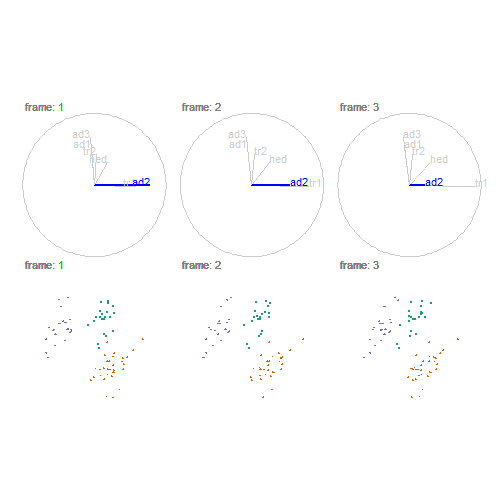
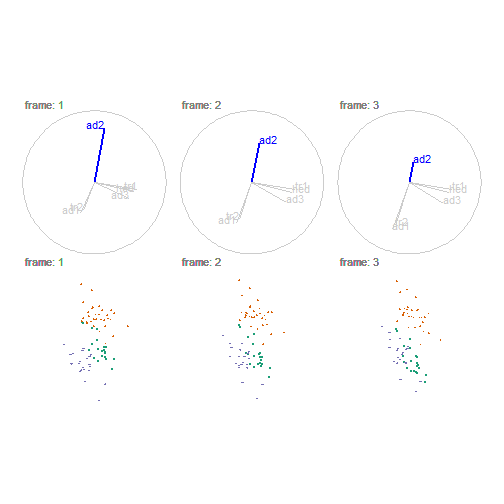
References, Changes from Julie.

diff --git a/slides_ns.html b/slides_ns.html
@@ -22,19 +22,19 @@ class: center, middle, inverse, title-slide
 
 # Motivation
 
-Exploratory data analysis is important and ubiquitous, and it's important to keep visual interpretation: 
+Exploratory data analysis is important and ubiquitous, and it is important to keep visual interpretation: 
 
 ![](./images/AllDinosAnimatedSmaller.gif)
 
-Datasaurus dozen; same means, standard deviations, and correlations, *Matejka &amp; Fitzmaurice, 2017*
+Datasaurus dozen; same means, standard deviations, and correlations, *(Matejka &amp; Fitzmaurice, 2017)*
 
 ---
 
 # Visualizing multivariate spaces
 
-- Visualization becomes complex; use dimension reduction
-- One static projection doesn't portray all of the variation
-- Dynamic rotations do a better job of revealing the structure
+- Visualization  multivariate spaces becomes complex; dimension reduction
+- One static projection does not portray all of the variation
+- Dynamic rotations do conveys more variation and more accurate structure
 
 **Shadow puppet analogy (linear projection from 3- to 2D):**
 
@@ -44,11 +44,11 @@ Datasaurus dozen; same means, standard deviations, and correlations, *Matejka &a
 
 # Dynamic linear projections, tours   
 
-**Available on CRAN,** `tourr` R package, *Wickham et al. 2011*
+**Available on CRAN,** `tourr` R package, *(Wickham et al. 2011)*
 
-- Random choice - *grand tour* random forest walk in `\(p\)`-space *Asimov 1985*
-- Data-driven - *guided tour* projection pursuit, optimize an objective function on the projection *Hurley &amp; Buja 1990*
-- Many other geometric displays, we'll discuss scatterplot
+- Random choice - *grand tour* random forest walk in `\(p\)`-space *(Asimov 1985)*
+- Data-driven - *guided tour* projection pursuit, optimize an objective function on the projection *(Hurley &amp; Buja 1990)*
+- Many other geometric displays, this talk uses scatterplots
 
 --
 
@@ -68,39 +68,40 @@ guided tour - optimizing holes index:
 
 # 3D and immersive 3D data visualization
 
+Data visualization has lagged behind in adopting 3D and immersive technologies, despite promising finds
 
 .pull-left[
-&lt;img src="./images/nelson98fig.PNG" width="100%" height="100%" style="display: block; margin: auto;" /&gt;
+&lt;img src="./images/nelson98fig.PNG" width="90%" height="90%" style="display: block; margin: auto;" /&gt;
 
-*Nelson et al. 1998*
+*(Nelson et al. 1998)*
 - tours: head-tracked VR vs standard monitor
 - better cluster and shape identification, slower brushing
 ]
 
 .pull-right[
-3D vs orthogonal 2D: 3D visuals generally convey more information with more speed, manipulation is slower, though 3D with 2D gives best perception *Lee 1986, Wickens 1994, Tory 2006, counterexample: sedlmair 2013*
+3D visuals generally convey more information with more speed, but  manipulation is slower when compared with orthogonal 2D, though 3D with 2D gives the best perception *[Lee 1986, Wickens 1994, Tory 2006]*
 
-Embedded multivariate data in 3D report improved accuracy, faster response time, but a slower manipulation speed and less comfort *Gracia 2016, Wagner 2018, Nelson 1998*
+Embedded multivariate data in immersive 3D report improved accuracy and faster response time, but a slower manipulation speed and less comfort *[Gracia 2016, Wagner 2018, Nelson 1998, counterexample: Sedlmair 2013]*
 
-With the improved quality, increasing audience, and reduced cost of modern VR it is timely to research dynamic projections in VR 
+Modern VR equipment has improved quality, increased audience, and reduced the costs of VR, it is timely to research dynamic projections in VR
 ]
 
 ---
 
 # Research objectives
+&lt;hr&gt;&lt;br&gt;
 
-- 1) How can user-controlled steering (UCS) be generalized to work within graphic-specific environments for 2D projections?
-- 2) Does 2D UCS tours provide benefits over alternatives?
-- 3) How do we extend UCS to 3D?
-- 4) Does UCS in 3D displays provide benefits over 2D displays?
+## 1) How can user-controlled steering (UCS) be generalized to work within graphic-specific environments for 2D projections?
+## 2) Does 2D UCS tours provide benefits over alternatives?
+## 3) How do we extend UCS to 3D?
+## 4) Does UCS in 3D displays provide benefits over 2D displays?
 
-&lt;img src="./images/ProjectOverview.PNG" width="60%" height="60%" style="display: block; margin: auto;" /&gt;
 
 ---
 
 # RO 1) How can UCS be generalized to work within graphic-specific environments for 2D projections?
 
-- Manual choice - *manual tour* user-controlled manipulation of a selected variable *Cook &amp; Buja 1997*
+- Manual choice - *manual tour* user-controlled manipulation of a selected variable *(Cook &amp; Buja 1997)*
     - Used to explore the sensitivity of the structure to the variables contributing to the projection
     
 *Algorithm design, work in progress &amp; paper to be submitted to the R Journal:*
@@ -113,14 +114,14 @@ With the improved quality, increasing audience, and reduced cost of modern VR it
 
 ---
 
-# Step 1) Choose a variable of interest
+# RO1 Step 1) Choose a variable of interest
 
 - Starting with the last projection of the previous holes-indexed guided tour:
 
 
 
 .pull-left[
-&lt;img src="slides_ns_files/figure-html/unnamed-chunk-5-1.png" width="130%" height="130%" style="display: block; margin: auto;" /&gt;
+&lt;img src="slides_ns_files/figure-html/unnamed-chunk-4-1.png" width="130%" height="130%" style="display: block; margin: auto;" /&gt;
 ]
 
 .pull-right[
@@ -135,33 +136,33 @@ With the improved quality, increasing audience, and reduced cost of modern VR it
 &lt;tbody&gt;
   &lt;tr&gt;
    &lt;td style="text-align:left;"&gt; tars1 &lt;/td&gt;
-   &lt;td style="text-align:right;"&gt; 0.5806 &lt;/td&gt;
-   &lt;td style="text-align:right;"&gt; -0.2581 &lt;/td&gt;
+   &lt;td style="text-align:right;"&gt; 0.5936 &lt;/td&gt;
+   &lt;td style="text-align:right;"&gt; 0.1667 &lt;/td&gt;
   &lt;/tr&gt;
   &lt;tr&gt;
    &lt;td style="text-align:left;"&gt; tars2 &lt;/td&gt;
-   &lt;td style="text-align:right;"&gt; 0.1591 &lt;/td&gt;
-   &lt;td style="text-align:right;"&gt; 0.4002 &lt;/td&gt;
+   &lt;td style="text-align:right;"&gt; -0.0420 &lt;/td&gt;
+   &lt;td style="text-align:right;"&gt; 0.3735 &lt;/td&gt;
   &lt;/tr&gt;
   &lt;tr&gt;
    &lt;td style="text-align:left;"&gt; head &lt;/td&gt;
-   &lt;td style="text-align:right;"&gt; 0.2376 &lt;/td&gt;
-   &lt;td style="text-align:right;"&gt; 0.3656 &lt;/td&gt;
+   &lt;td style="text-align:right;"&gt; -0.1135 &lt;/td&gt;
+   &lt;td style="text-align:right;"&gt; 0.4786 &lt;/td&gt;
   &lt;/tr&gt;
   &lt;tr&gt;
    &lt;td style="text-align:left;"&gt; aede1 &lt;/td&gt;
-   &lt;td style="text-align:right;"&gt; 0.0992 &lt;/td&gt;
-   &lt;td style="text-align:right;"&gt; 0.5339 &lt;/td&gt;
+   &lt;td style="text-align:right;"&gt; -0.2207 &lt;/td&gt;
+   &lt;td style="text-align:right;"&gt; 0.4426 &lt;/td&gt;
   &lt;/tr&gt;
   &lt;tr&gt;
    &lt;td style="text-align:left;"&gt; aede2 &lt;/td&gt;
-   &lt;td style="text-align:right;"&gt; 0.7143 &lt;/td&gt;
-   &lt;td style="text-align:right;"&gt; -0.2603 &lt;/td&gt;
+   &lt;td style="text-align:right;"&gt; 0.7392 &lt;/td&gt;
+   &lt;td style="text-align:right;"&gt; 0.2478 &lt;/td&gt;
   &lt;/tr&gt;
   &lt;tr&gt;
    &lt;td style="text-align:left;"&gt; aede3 &lt;/td&gt;
-   &lt;td style="text-align:right;"&gt; 0.2472 &lt;/td&gt;
-   &lt;td style="text-align:right;"&gt; 0.5355 &lt;/td&gt;
+   &lt;td style="text-align:right;"&gt; -0.1944 &lt;/td&gt;
+   &lt;td style="text-align:right;"&gt; 0.5885 &lt;/td&gt;
   &lt;/tr&gt;
 &lt;/tbody&gt;
 &lt;/table&gt;
@@ -171,10 +172,10 @@ With the improved quality, increasing audience, and reduced cost of modern VR it
 
 ---
 
-# Step 2) Create a manipulation space
+# RO1 Step 2) Create a manipulation space
 
 .pull-left[
-&lt;img src="slides_ns_files/figure-html/unnamed-chunk-7-1.png" width="80%" height="80%" style="display: block; margin: auto;" /&gt;
+&lt;img src="slides_ns_files/figure-html/unnamed-chunk-6-1.png" width="80%" height="80%" style="display: block; margin: auto;" /&gt;
 ]
 
 .pull-right[
@@ -186,14 +187,14 @@ With the improved quality, increasing audience, and reduced cost of modern VR it
 
 ---
 
-# Step 3) Generate the rotation
+# RO1 Step 3) Generate the rotation
 
 *Over the sequence of angles:* rotate the manipulation space for each element
 
 - Project the data
 - Plot the first two variables of the rotated basis and projection
 
-&lt;img src="slides_ns_files/figure-html/unnamed-chunk-8-1.png" width="40%" height="40%" style="display: block; margin: auto;" /&gt;
+&lt;img src="slides_ns_files/figure-html/unnamed-chunk-7-1.png" width="40%" height="40%" style="display: block; margin: auto;" /&gt;
 
 ---
 
@@ -211,7 +212,7 @@ As an [html widget](https://nspyrison.netlify.com/thesis/flea_manualtour_mvar5/)
 
 # Application -- high energy physics
 
-Hadronic collision experiment data, `\(\textbf{X} \in \mathbb{R}^{56}\)`, *Wang, et al. 2018*, studied with guided tours *Cook, et al. 2018*
+Hadronic collision experiment data, `\(\textbf{X} \in \mathbb{R}^{56}\)`, *(Wang, et al. 2018)*, studied with guided tours *(Cook, et al. 2018)*
 
 .pull-left[
 
@@ -225,7 +226,7 @@ Given:
 - Data summarized in 6 principal components, ~48% of the variation
 - Starting basis from previously published figures
 
-Conclusion, PC6 is important in explaining the structure features in the data:
+Conclusion, PC6 is important in explaining the structural features in the data:
 - When the contribution of PC6 is full, the plane of green points extends into the line of sight
 - When the contribution is zeroed, the line of purple points is approaching a head-on view
 ]
@@ -238,7 +239,7 @@ Conclusion, PC6 is important in explaining the structure features in the data:
 *Future performance comparison measured across contemporary benchmark datasets*
 
 - Principal Component Analysis (PCA) 
-    - Linear transformation that produces linear combinations of the variables in descending order of variation explained
+    - A linear transformation that produces linear combinations of the variables in descending order of variation explained
 - Multi-Dimensional Scaling (MDS)
     - Non-leaner dimension reduction that compares the pairwise distance between observations
 - T-distributed Stochastic Neighbor Embedding (tSNE)
@@ -256,9 +257,9 @@ Design space: data sets, techniques, and measures of comparison
 
 *future algorithm design*
 
-Extend UCS algorithm to 3D projections and integrate with Immersive Analytics Tool Kit, `IATK`, *Cordeil 2019* for common user interface across display devices
+Extend UCS algorithm to 3D projections and integrate with Immersive Analytics Tool Kit, `IATK`, *(Cordeil 2019)* for common user interface across display devices
 
--Develop for 3D scatterplots and then extended to multi-dimensional function surfaces
+- Develop for 3D scatterplots and then extend to multi-dimensional function surfaces
 
 .pull-left[
 &lt;img src="./images/f_mt.gif" width="70%" height="70%" style="display: block; margin: auto;" /&gt;
@@ -274,7 +275,7 @@ Extend UCS algorithm to 3D projections and integrate with Immersive Analytics To
 
 # RO 4) Does UCS in 3D displays provide benefits over 2D displays?
 
-*future usability study* -- lineup design *Hofmann et al. 2012*
+*future usability study* -- lineup design *(Hofmann et al. 2012)*
 
 .pull-left[
 - Visual variant of statistical p-test
@@ -304,6 +305,8 @@ class: center, middle
 Slides created in R using rmarkdown and xaringan
 
 Slides -- [github.com/nspyrison/confirmation_talk]( https://github.com/nspyrison/confirmation_talk)
+
+.large[Questions?]
 &lt;br&gt;&lt;br&gt;&lt;br&gt;&lt;br&gt;
 
 .left[
@@ -313,6 +316,56 @@ Slides -- [github.com/nspyrison/confirmation_talk]( https://github.com/nspyrison
 
 *Xie, 2018*
 ]
+
+---
+
+# References (1/2)
+
+*In order of appearance:*
+
+Matejka, J., &amp; Fitzmaurice, G. (2017). Same Stats, Different Graphs: Generating Datasets with Varied Appearance and Identical Statistics through Simulated Annealing. In Proceedings of the 2017 CHI Conference on Human Factors in Computing Systems  - CHI ’17 (pp. 1290–1294). Denver, Colorado, USA: ACM Press. https://doi.org/10.1145/3025453.3025912
+
+Wickham, H., Cook, D., Hofmann, H., &amp; Buja, A. (2011). tourr : An R Package for Exploring Multivariate Data with Projections. Journal of Statistical Software, 40(2). https://doi.org/10.18637/jss.v040.i02
+
+Asimov, D. (1985). The Grand Tour: a Tool for Viewing Multidimensional Data. SIAM Journal on Scientific and Statistical Computing, 6(1), 128–143.
+
+Hurley, C., &amp; Buja, A. (1990). Analyzing High-Dimensional Data with Motion Graphics. SIAM Journal on Scientific and Statistical Computing, 11(6), 1193–1211. https://doi.org/10.1137/0911068
+
+Nelson, L., Cook, D., &amp; Cruz-Neira, C. (1998). XGobi vs the C2: Results of an Experiment Comparing Data Visualization in a 3-D Immersive Virtual Reality Environment with a 2-D Workstation Display. Computational Statistics, 14(1), 39–52.
+
+Lee, J. M., MacLachlan, J., &amp; Wallace, W. A. (1986). The Effects of 3D Imagery on Managerial Data Interpretation. MIS Quarterly, 257–269.
+
+---
+
+# References (2/3)
+
+Wickens, C. D., Merwin, D. H., &amp; Lin, E. L. (1994). Implications of Graphics Enhancements for the Visualization of Scientific Data: Dimensional Integrality, Stereopsis, Motion, and Mesh. Human Factors, 36(1), 44–61.
+
+Tory, M., Kirkpatrick, A. E., Atkins, M. S., &amp; Moller, T. (2006). Visualization Task Performance with 2D, 3D, and Combination Displays. IEEE Transactions on Visualization and Computer Graphics, 12(1), 2–13.
+
+Gracia, A., González, S., Robles, V., Menasalvas, E., &amp; von Landesberger, T. (2016). New Insights into the Suitability of the Third Dimension for Visualizing Multivariate/Multidimensional Data: A Study Based on Loss of Quality Quantification. Information Visualization, 15(1), 3–30. https://doi.org/10.1177/1473871614556393
+
+Wagner Filho, J., Rey, M., Freitas, C., &amp; Nedel, L. (2018). Immersive Visualization of Abstract Information: An Evaluation on Dimensionally-Reduced Data Scatterplots.
+
+Sedlmair, M., Munzner, T., &amp; Tory, M. (2013). Empirical Guidance on Scatterplot and Dimension Reduction Technique Choices. IEEE Transactions on Visualization &amp; Computer Graphics, (12), 2634–2643.
+
+Cook, D., &amp; Buja, A. (1997). Manual Controls for High-Dimensional Data Projections. Journal of Computational and Graphical Statistics, 6(4), 464–480. https://doi.org/10.2307/1390747
+
+---
+
+# References (3/3)
+
+Wang, B.-T., Hobbs, T. J., Doyle, S., Gao, J., Hou, T.-J., Nadolsky, P. M., &amp; Olness, F. I. (2018). Visualizing the sensitivity of hadronic experiments to nucleon structure. ArXiv Preprint ArXiv:1803.02777.
+
+Cook, D., Laa, U., &amp; Valencia, G. (2018). Dynamical projections for the visualization of PDFSense data. Eur. Phys. J. C, 78(9), 742.
+
+Cordeil, M. (2019). Immersive Analytics Toolkit (Version IATK 1.0 (Mala) Unity 2017). Retrieved from https://github.com/MaximeCordeil/IATK (Original work published 2017)
+
+R Core Team. (2018). R: A Language and Environment for Statistical Computing. Vienna, Austria: R Foundation for Statistical Computing. Retrieved from https://www.R-project.org/
+
+Xie, Y., Allaire, J. J., &amp; Grolemund, G. (2018). R Markdown: The Definitive Guide. Boca Raton, Florida: Chapman and Hall/CRC. Retrieved from https://bookdown.org/yihui/rmarkdown
+
+Xie, Y. (2018). xaringan: Presentation Ninja. Retrieved from https://CRAN.R-project.org/package=xaringan
     </textarea>
 <script src="https://remarkjs.com/downloads/remark-latest.min.js"></script>
 <script>var slideshow = remark.create({
